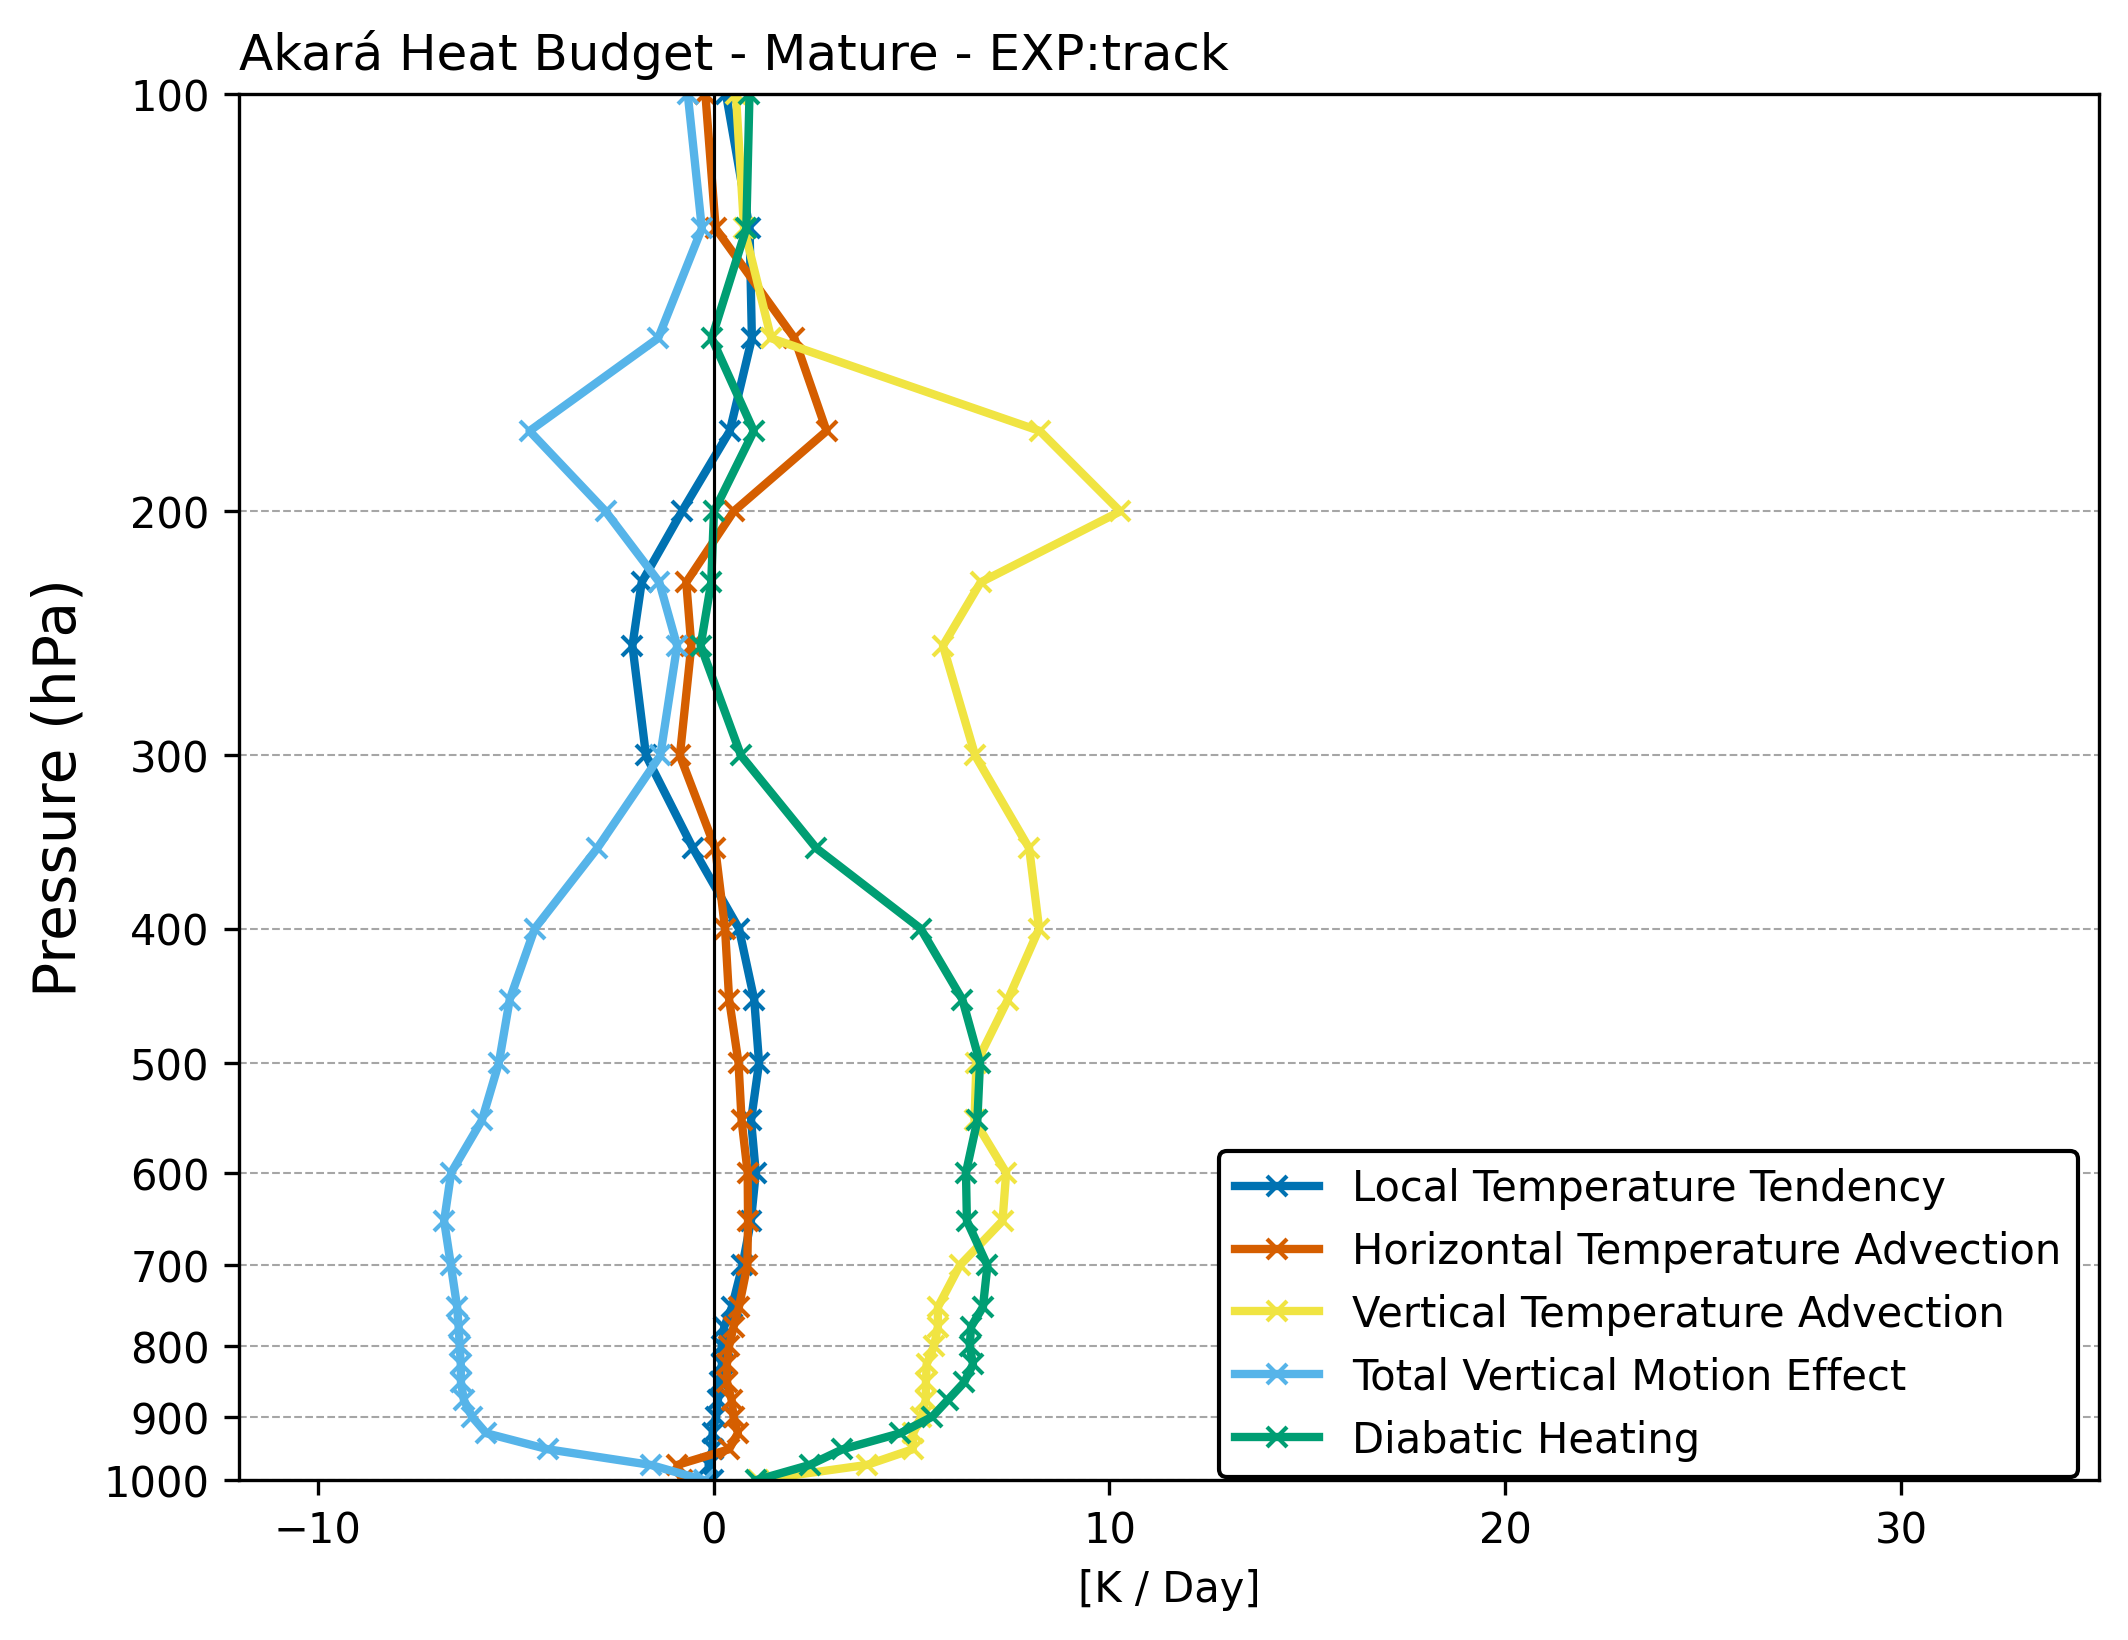
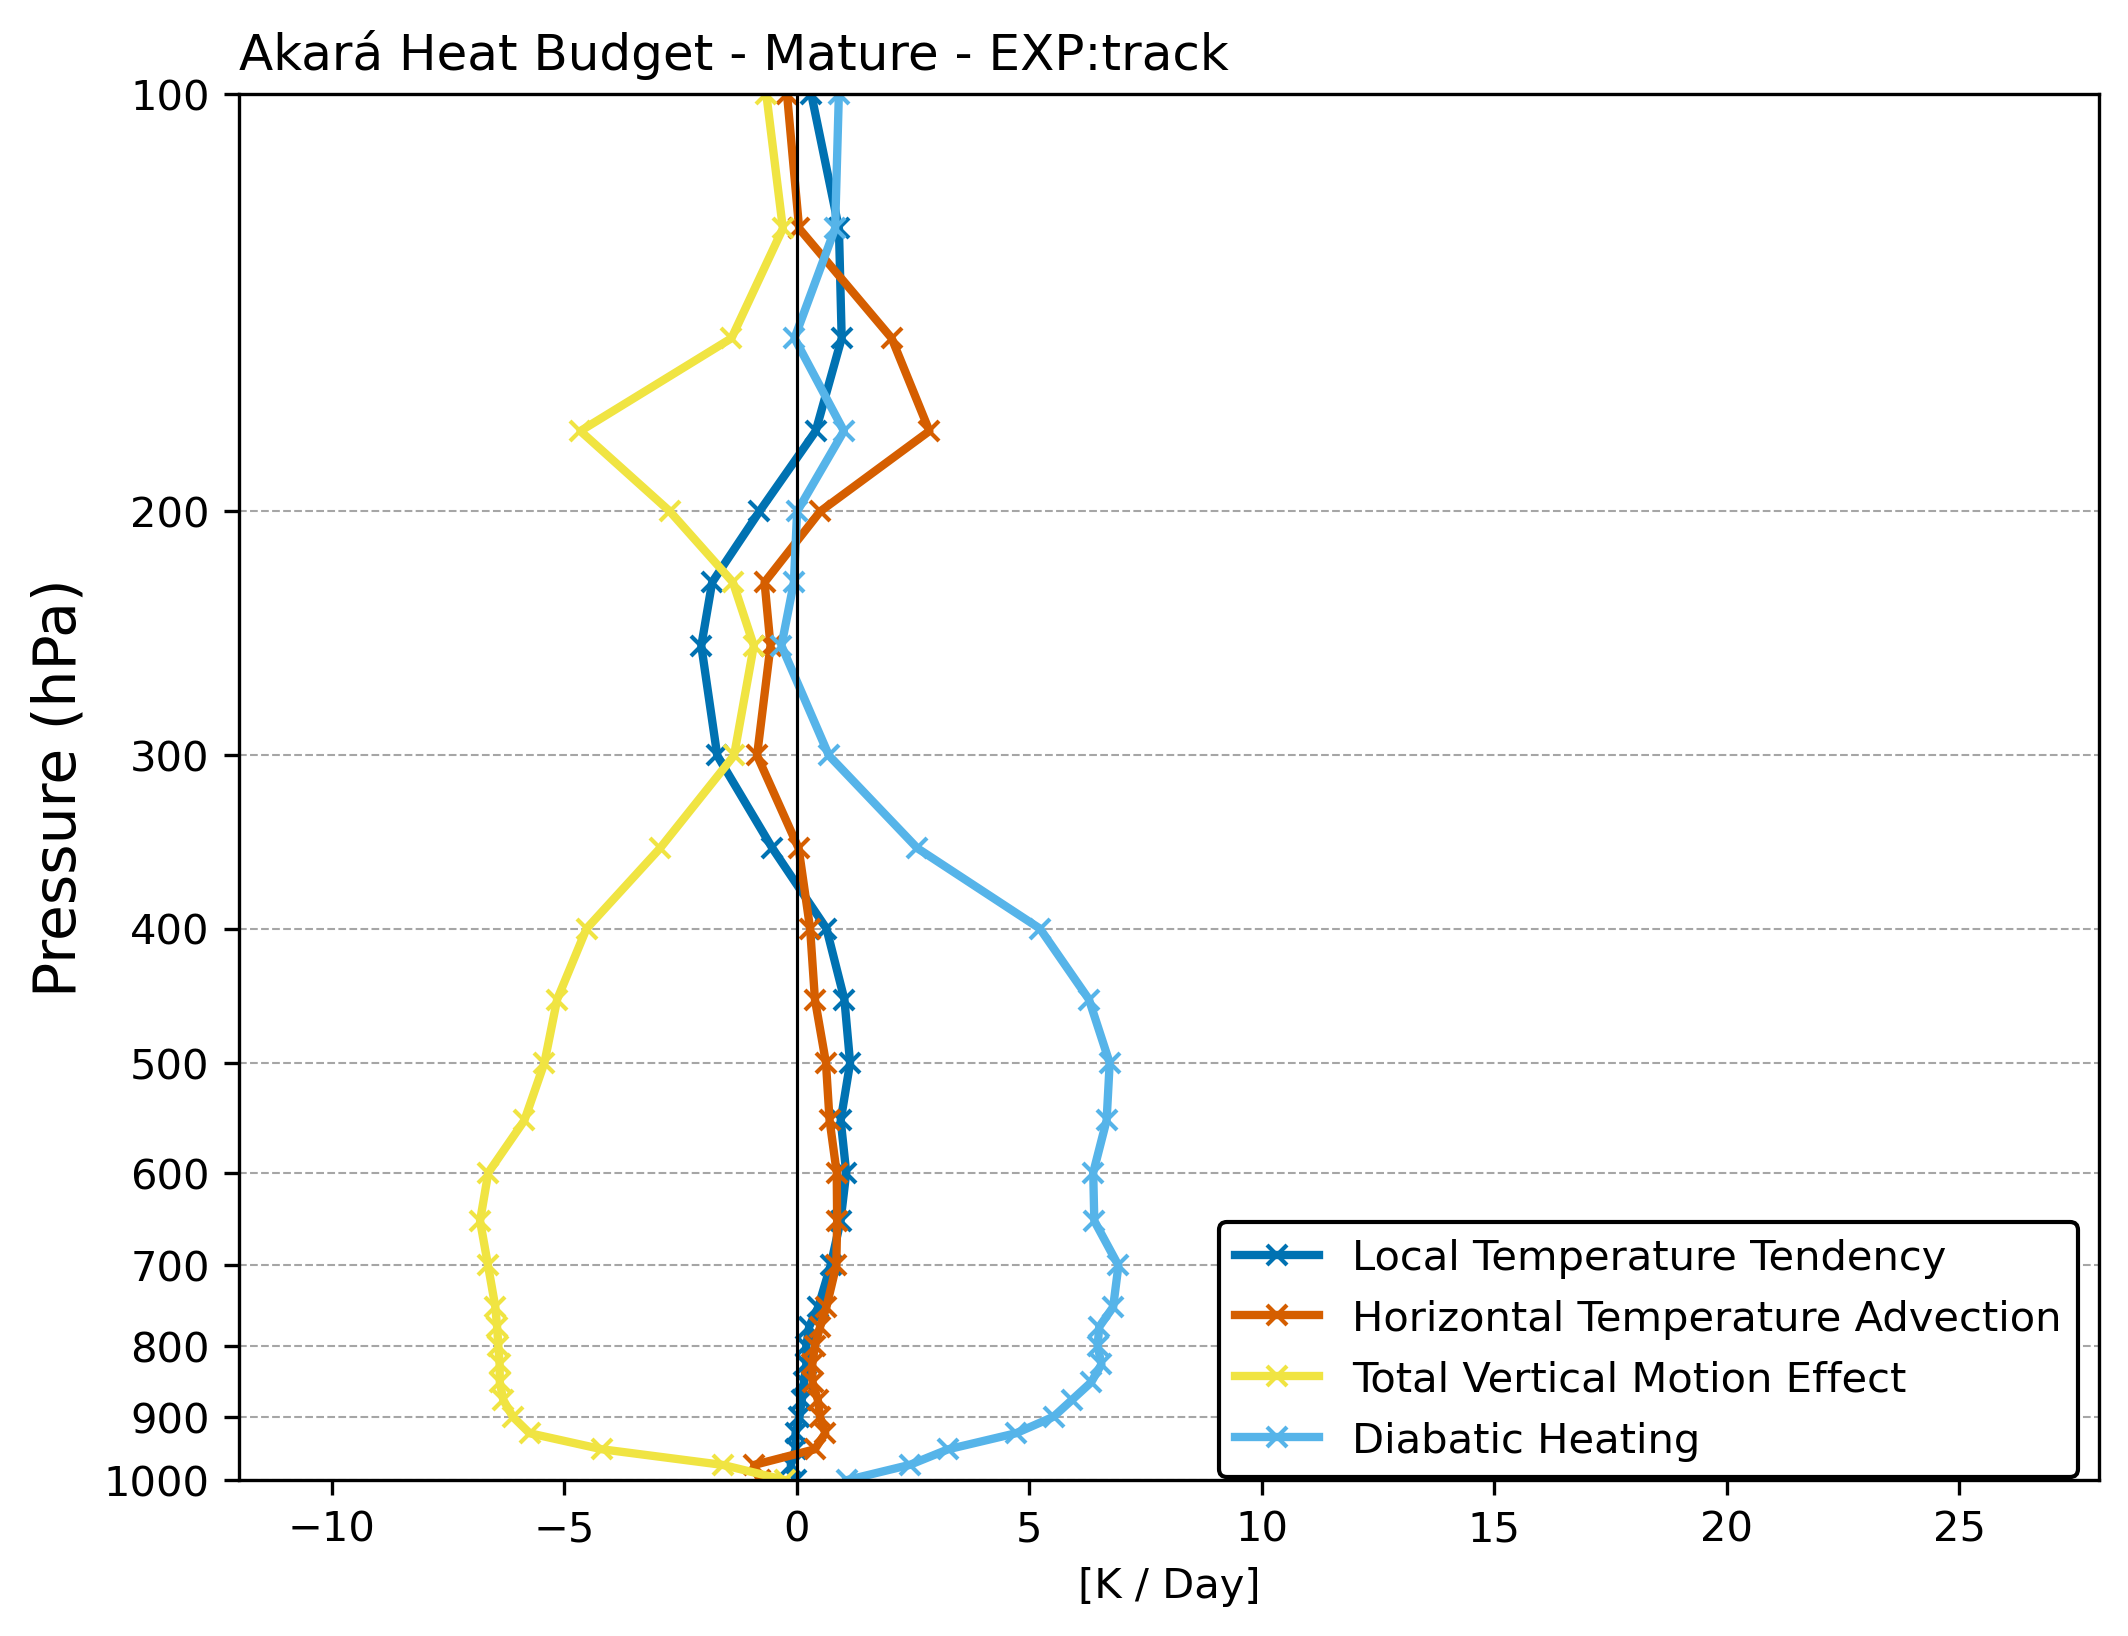
atualização

diff --git a/Akara/AtmosBud/akara1_track/Scripts/T_balanc.py b/Akara/AtmosBud/akara1_track/Scripts/T_balanc.py
@@ -9,11 +9,12 @@ DIRFIGS = '/home/victor/USP/sinotica3/ATMOS-BUD_Results/Akara/AtmosBud/akara1_tr
 # Lista de arquivos de dados
 dTdt = DIRDADO + 'dTdt.csv'
 AdvHTemp = DIRDADO + 'AdvHTemp.csv'
-AdvVTemp = DIRDADO + 'AdvVTemp.csv'
+#AdvVTemp = DIRDADO + 'AdvVTemp.csv'
 SigmaOmega = DIRDADO + 'Sigma_omega.csv'
 ResT = DIRDADO + 'ResT.csv'
 
-lista_arquivos = [dTdt, AdvHTemp, AdvVTemp, SigmaOmega, ResT]
+#lista_arquivos = [dTdt, AdvHTemp, AdvVTemp, SigmaOmega, ResT]
+lista_arquivos = [dTdt, AdvHTemp, SigmaOmega, ResT]
 
 # Intervalos de datas
 date_intervals = [
@@ -27,11 +28,16 @@ nomes = ['Incipient', 'Intensification', 'Mature', 'Decay']
 
 colors = ['#0072B2', '#D55E00', '#F0E442', '#56B4E9', '#009E73']
 
+#labels = ['Local Temperature Tendency',
+#          'Horizontal Temperature Advection',
+#          'Vertical Temperature Advection',
+#          'Total Vertical Motion Effect',
+#          'Diabatic Heating']  # Rótulos para cada curva
+
 labels = ['Local Temperature Tendency',
           'Horizontal Temperature Advection',
-          'Vertical Temperature Advection',
           'Total Vertical Motion Effect',
-          'Diabatic Heating']  # Rótulos para cada curva
+          'Diabatic Heating']
 hora = 86400
 
 for idx, (date_interval, nome) in enumerate(zip(date_intervals, nomes)):
@@ -69,7 +75,7 @@ for idx, (date_interval, nome) in enumerate(zip(date_intervals, nomes)):
 
     # Configurações do grid e título
     ax.grid(axis='y', linestyle='--', color='gray', alpha=0.7, linewidth=0.5)
-    ax.set_xlim(-12, 35)  # Definir limites do eixo x
+    ax.set_xlim(-12, 28)  # Definir limites do eixo x
     ax.set_title(f'Akará Heat Budget - {nome} - EXP:track', fontsize=12, loc='left')
     ax.set_xlabel('[K / Day]', fontsize=10)
     ax.set_ylabel('Pressure (hPa)', fontsize=14)
